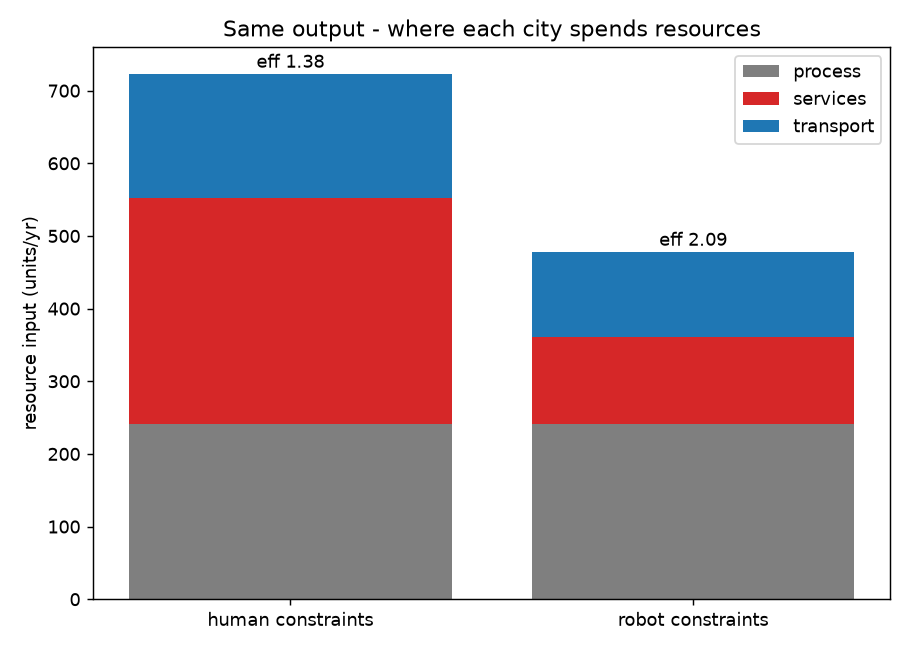
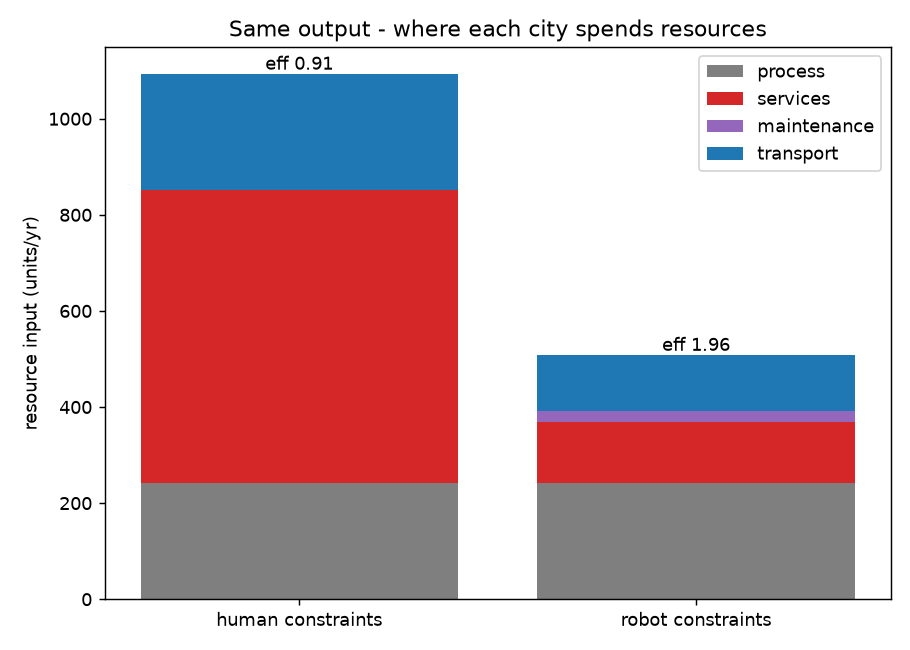
Count remaining channels on both sides: utilisation, worker housing, robot upkeep
- Human mode: 75% capacity utilisation grosses physical floor x1.33;
  worker housing sized from implied workforce (600 sqft/person) instead of
  a token constant, pushed to the safety perimeter
- Robot mode: 95% lights-out uptime; +10% maintenance/spares/compute charged
  against the robot side so the comparison cuts both ways
- Efficiency ratio rises to ~2.15; services dominate the gap (-79%), and the
  dormitory-suburb ring emerges from the optimiser in the human layout

Claude-Session: https://claude.ai/code/session_018B21Q3nPziZ4SotrVLNRai

diff --git a/robot_city/city_env.py b/robot_city/city_env.py
@@ -13,18 +13,27 @@ One environment, two constraint modes:
   becomes heat: total equipment power in any 3x3 neighbourhood must stay
   under a district-cooling limit.
 
-Efficiency = OUTPUT / (process input + building services + transport).
+Efficiency = OUTPUT / (process + services + maintenance + transport).
 OUTPUT is identical across modes (same production chain), so the ratio of
 optimised efficiencies isolates what removing human constraints buys.
-The three input channels:
-- process input: proportional to net process floor, identical per sqft in
-  both modes (the machines do the same work either way)
-- building services: proportional to GROSS floor (human mode carries the
-  x1.45 amenity overhead and the worker hubs), multiplied in human mode by
-  an occupant factor for lighting and comfort HVAC - per CBECS roughly a
-  third of commercial building energy serves occupants, which a lights-out
-  facility does not spend
-- transport: flow-weighted distance, as before
+Input channels:
+- process: proportional to EFFECTIVE process floor, identical in both modes
+  (the machines do the same work either way)
+- utilisation: humans run shifts with breaks and holidays (~75% capacity
+  utilisation, cf. the Fed's G.17 series); lights-out operation sustains
+  ~95%. The same effective floor therefore needs x1.33 physical floor in
+  human mode and x1.05 in robot mode - which propagates into services,
+  land take and feasibility
+- services: proportional to GROSS physical floor (amenity overhead x1.45,
+  worker housing) times an occupant factor of 1.5 in human mode - per
+  CBECS roughly a third of commercial building energy serves occupants
+  (lighting, comfort HVAC), which a lights-out facility does not spend
+- support housing (human only): the workforce implied by the process floor
+  must live somewhere; hubs are sized from workers x floor-per-resident
+  instead of a token constant
+- maintenance (robot only): robots are not free - upkeep, spares and
+  compute add a fraction on top of process input
+- transport: flow-weighted distance, as before (human mode adds commute)
 """
 
 from dataclasses import dataclass, field
@@ -34,27 +43,33 @@ import pandas as pd
 
 # --- production chain (identical in both modes) ---------------------------
 OUTPUT_UNITS = 1000.0      # abstract units produced when the chain is placed
-PROCESS_INTENSITY = 1.0    # input per 1,000 sqft of net process floor
+PROCESS_INTENSITY = 1.0    # input per 1,000 sqft of EFFECTIVE process floor
 SERVICE_INTENSITY = 0.5    # building-services input per 1,000 sqft gross
 OCCUPANT_FACTOR = 1.5      # occupied buildings spend ~1/3 more on people
 BETA = 1.0                 # resources lost per unit flow-weighted distance
 
 # --- human-mode parameters -------------------------------------------------
-AMENITY_OVERHEAD = 1.45  # gross/net floor factor for occupied buildings
-SAFETY_DIST = 2          # min Chebyshev distance hub <-> industrial (cells)
-COMMUTE_W = 0.5          # commute flow weight hub -> each industrial node
+AMENITY_OVERHEAD = 1.45   # gross/net floor factor for occupied buildings
+SAFETY_DIST = 2           # min Chebyshev distance hub <-> industrial (cells)
+COMMUTE_W = 0.5           # commute flow weight hub -> each industrial node
+HUMAN_UPTIME = 0.75       # shift schedules, breaks, holidays (Fed G.17)
+WORKERS_PER_KSQFT = 1.25  # ~1 worker per 800 sqft of process floor
+SUPPORT_SQFT = 600.0      # housing + daily services floor per worker
+N_HUBS = 4
 
 # --- robot-mode parameters -------------------------------------------------
-STRUCT_FAR = 30.0        # structural (not zoning) FAR limit
-POWER_KW_PER_SQFT = 0.1  # equipment power density
-COOL_CAP_KW = 12000.0    # cooling limit per 3x3 neighbourhood
+STRUCT_FAR = 30.0         # structural (not zoning) FAR limit
+ROBOT_UPTIME = 0.95       # lights-out continuous operation
+MAINT_FRACTION = 0.10     # upkeep, spares, compute on top of process input
+POWER_KW_PER_SQFT = 0.1   # equipment power density
+COOL_CAP_KW = 12000.0     # cooling limit per 3x3 neighbourhood
 
 
 @dataclass
 class Facility:
     name: str
-    kind: str        # "industrial" or "hub"
-    floor_sqft: float
+    kind: str          # "industrial" or "hub"
+    floor_sqft: float  # industrial: EFFECTIVE (at 100% uptime); hub: physical
 
 
 @dataclass
@@ -106,17 +121,30 @@ class CityEnv:
             flows.append((k, 12, 3.0))
         if self.mode == "human":      # workers must be housed on site
             n_ind = len(fac)
-            for h in range(3):
-                fac.append(Facility(f"worker_hub_{h}", "hub", 15000))
+            process_ksqft = sum(f.floor_sqft for f in fac) / 1000
+            workers = process_ksqft * WORKERS_PER_KSQFT / HUMAN_UPTIME
+            hub_floor = workers * SUPPORT_SQFT / N_HUBS
+            for h in range(N_HUBS):
+                fac.append(Facility(f"worker_hub_{h}", "hub", hub_floor))
                 for i in range(n_ind):
-                    if i % 3 == h:
+                    if i % N_HUBS == h:
                         flows.append((n_ind + h, i, COMMUTE_W))
         return fac, flows
+
+    def uptime(self) -> float:
+        return HUMAN_UPTIME if self.mode == "human" else ROBOT_UPTIME
+
+    def physical_floor(self, f: Facility) -> float:
+        """Floor that must actually be built: effective floor grossed up by
+        utilisation for industrial nodes; hubs are already physical."""
+        if f.kind == "industrial":
+            return f.floor_sqft / self.uptime()
+        return f.floor_sqft
 
     # --- feasibility --------------------------------------------------------
     def gross_floor(self, f: Facility) -> float:
         over = AMENITY_OVERHEAD if self.mode == "human" else 1.0
-        return f.floor_sqft * over
+        return self.physical_floor(f) * over
 
     def feasible(self, assign: np.ndarray) -> bool:
         used = np.zeros(len(self.lots))
@@ -141,7 +169,8 @@ class CityEnv:
             heat = np.zeros((self.side, self.side))
             for fi, cell in enumerate(assign):
                 r, c = self.rc[cell]
-                heat[r, c] += self.facilities[fi].floor_sqft * POWER_KW_PER_SQFT
+                heat[r, c] += (self.physical_floor(self.facilities[fi])
+                               * POWER_KW_PER_SQFT)
             block = np.zeros_like(heat)
             for dr in (-1, 0, 1):
                 for dc in (-1, 0, 1):
@@ -159,13 +188,16 @@ class CityEnv:
         ))
 
     def input_breakdown(self, assign: np.ndarray) -> dict:
-        net_process = sum(f.floor_sqft for f in self.facilities
-                          if f.kind == "industrial")
+        effective = sum(f.floor_sqft for f in self.facilities
+                        if f.kind == "industrial")
         gross_total = sum(self.gross_floor(f) for f in self.facilities)
         occ = OCCUPANT_FACTOR if self.mode == "human" else 1.0
+        process = PROCESS_INTENSITY * effective / 1000
+        maint = MAINT_FRACTION * process if self.mode == "robot" else 0.0
         return {
-            "process": PROCESS_INTENSITY * net_process / 1000,
+            "process": process,
             "services": SERVICE_INTENSITY * gross_total / 1000 * occ,
+            "maintenance": maint,
             "transport": BETA * self.transport(assign),
         }
 

diff --git a/robot_city/run_comparison.py b/robot_city/run_comparison.py
@@ -56,8 +56,8 @@ def evaluate_mode(lots: pd.DataFrame, mode: str) -> dict:
 def plot_breakdown(human: dict, robot: dict, path: str) -> None:
     fig, ax = plt.subplots(figsize=(7, 5))
     modes = [("human", human), ("robot", robot)]
-    channels = ["process", "services", "transport"]
-    colors = ["tab:gray", "tab:red", "tab:blue"]
+    channels = ["process", "services", "maintenance", "transport"]
+    colors = ["tab:gray", "tab:red", "tab:purple", "tab:blue"]
     for x, (name, res) in enumerate(modes):
         bd = res["env"].input_breakdown(res["assign"])
         bottom = 0.0

diff --git a/robot_city/README.md b/robot_city/README.md
@@ -27,18 +27,23 @@ are precisely the constraints that vanish when no one is inside.
 |---|---|---|
 | floor area per lot | zoning FAR cap (light/air) | structural cap (FAR 30) |
 | use districts | industry on M lots, hubs on C lots only | anywhere |
-| worker hubs | required, >= 2 cells from industry | none |
+| worker housing | sized from workforce x 600 sqft/person, >= 2 cells from industry | none |
 | amenity overhead | x1.45 gross/net floor | x1.0 |
+| capacity utilisation | 75% (shifts, breaks, holidays) | 95% (lights-out 24/7) |
+| upkeep | - | +10% of process input (spares, compute) |
 | binding limit | zoning | cooling: <= 12 MW per 3x3 block |
 
 Same production chain, same objective in both:
-`efficiency = output / (process input + building services + transport)`.
-Process input is identical per sqft in both modes (the machines do the same
-work); building services scale with GROSS floor (human mode pays the x1.45
-amenity overhead and the hubs) times an occupant factor of 1.5 (roughly a
-third of commercial building energy serves occupants - lighting, comfort
-HVAC - which a lights-out facility does not spend); transport is
-flow-weighted distance.
+`efficiency = output / (process + services + maintenance + transport)`.
+Process input is identical in both modes (the machines do the same work).
+Utilisation grosses up the floor that must physically exist (x1.33 human,
+x1.05 robot), which propagates into services, land take and feasibility.
+Services scale with gross physical floor times an occupant factor of 1.5 in
+human mode (roughly a third of commercial building energy serves occupants -
+lighting, comfort HVAC - which a lights-out facility does not spend).
+Worker housing is derived from the implied workforce, not a token constant.
+Maintenance is a robot-only penalty so the comparison cuts both ways.
+Transport is flow-weighted distance; human mode adds commute flows.
 
 ## Files
 
@@ -66,25 +71,30 @@ python breakeven.py          # reads rho, prints payback table
 
 ## Current result (sample lots, 5 seeds)
 
-| mode | best efficiency | process | services | transport |
-|---|---|---|---|---|
-| human constraints | 1.38 | 241 | 311 | 172 |
-| robot constraints | 2.09 | 241 | 121 | 117 |
-| **ratio rho** | **~1.51** | | | |
+| mode | best efficiency | process | services | maintenance | transport |
+|---|---|---|---|---|---|
+| human constraints | 0.91 | 241 | 612 | 0 | 242 |
+| robot constraints | 1.96 | 241 | 127 | 24 | 117 |
+| **ratio rho** | **~2.15** | | | | |
 
 Where the gap comes from (see `outputs/input_breakdown.png`): process input
-is identical by construction; the biggest single win is building services
-(-61%: no amenity overhead, no worker hubs, no occupant lighting/HVAC),
-then transport (-32%: denser placement once zoning and safety spacing are
-gone). Note rho is a lower bound - channels deliberately not counted yet
-include 24/7 utilisation (no shifts) and human idle/commute time.
+is identical by construction and robot upkeep is charged against the robot
+side, yet services dominate the gap (-79%): the human city must build 33%
+more floor for the same effective output (shift utilisation), gross it up
+45% for amenities, house its workforce on top, and light/heat it all for
+occupants. Transport follows (-52% including commute): denser placement
+once zoning and safety spacing are gone. The human city's efficiency drops
+below 1.0 - it spends more than it produces in these units - because it is
+carrying an entire support city on its back; that support burden, not the
+factory itself, is what a robot city deletes.
 
-The optimised layouts tell the story: the human city spreads (industry
-scattered across M lots, worker hubs pushed to safety distance), the robot
-city collapses into a tight stacked cluster until the cooling limit binds -
-the bottleneck moves from zoning law to thermodynamics.
+The optimised layouts tell the story: the human city pushes large worker-
+housing hubs to the safety perimeter (a dormitory-suburb ring, emerging
+from the optimiser rather than assumed), while the robot city collapses
+into a few stacked clusters until the cooling limit binds - the bottleneck
+moves from zoning law to thermodynamics.
 
-Break-even at rho = 1.51: NYC residents need ~$500bn/yr of net product;
+Break-even at rho = 2.15: NYC residents need ~$500bn/yr of net product;
 capital of ~$0.6-1.6tn (at $75k-300k per job automated) pays back in ~1-3
 years of liberated wages. The result is dominated by capital cost
 assumptions, not by rho - an honest finding: *whether* to build is an
@@ -93,8 +103,10 @@ economics question, *how well* it can run is the optimisation question.
 ## Honest limitations / next steps
 
 - Sample lots stand in for real PLUTO until the CSV is downloaded; the
-  parameters (overhead factor, cooling cap, power density) are order-of-
-  magnitude engineering values, not calibrated.
+  parameters (overhead factor, utilisation rates, floor-per-worker, cooling
+  cap, power density, maintenance fraction) are order-of-magnitude
+  engineering values with cited anchors, not calibrated fits - rho should
+  be read as "roughly 2x", not "2.15".
 - Optimisers are classical; the planned contribution is an RL policy
   (PPO + GNN over the lot graph) benchmarked against these baselines.
 - Single objective (transport efficiency); the multi-objective version
